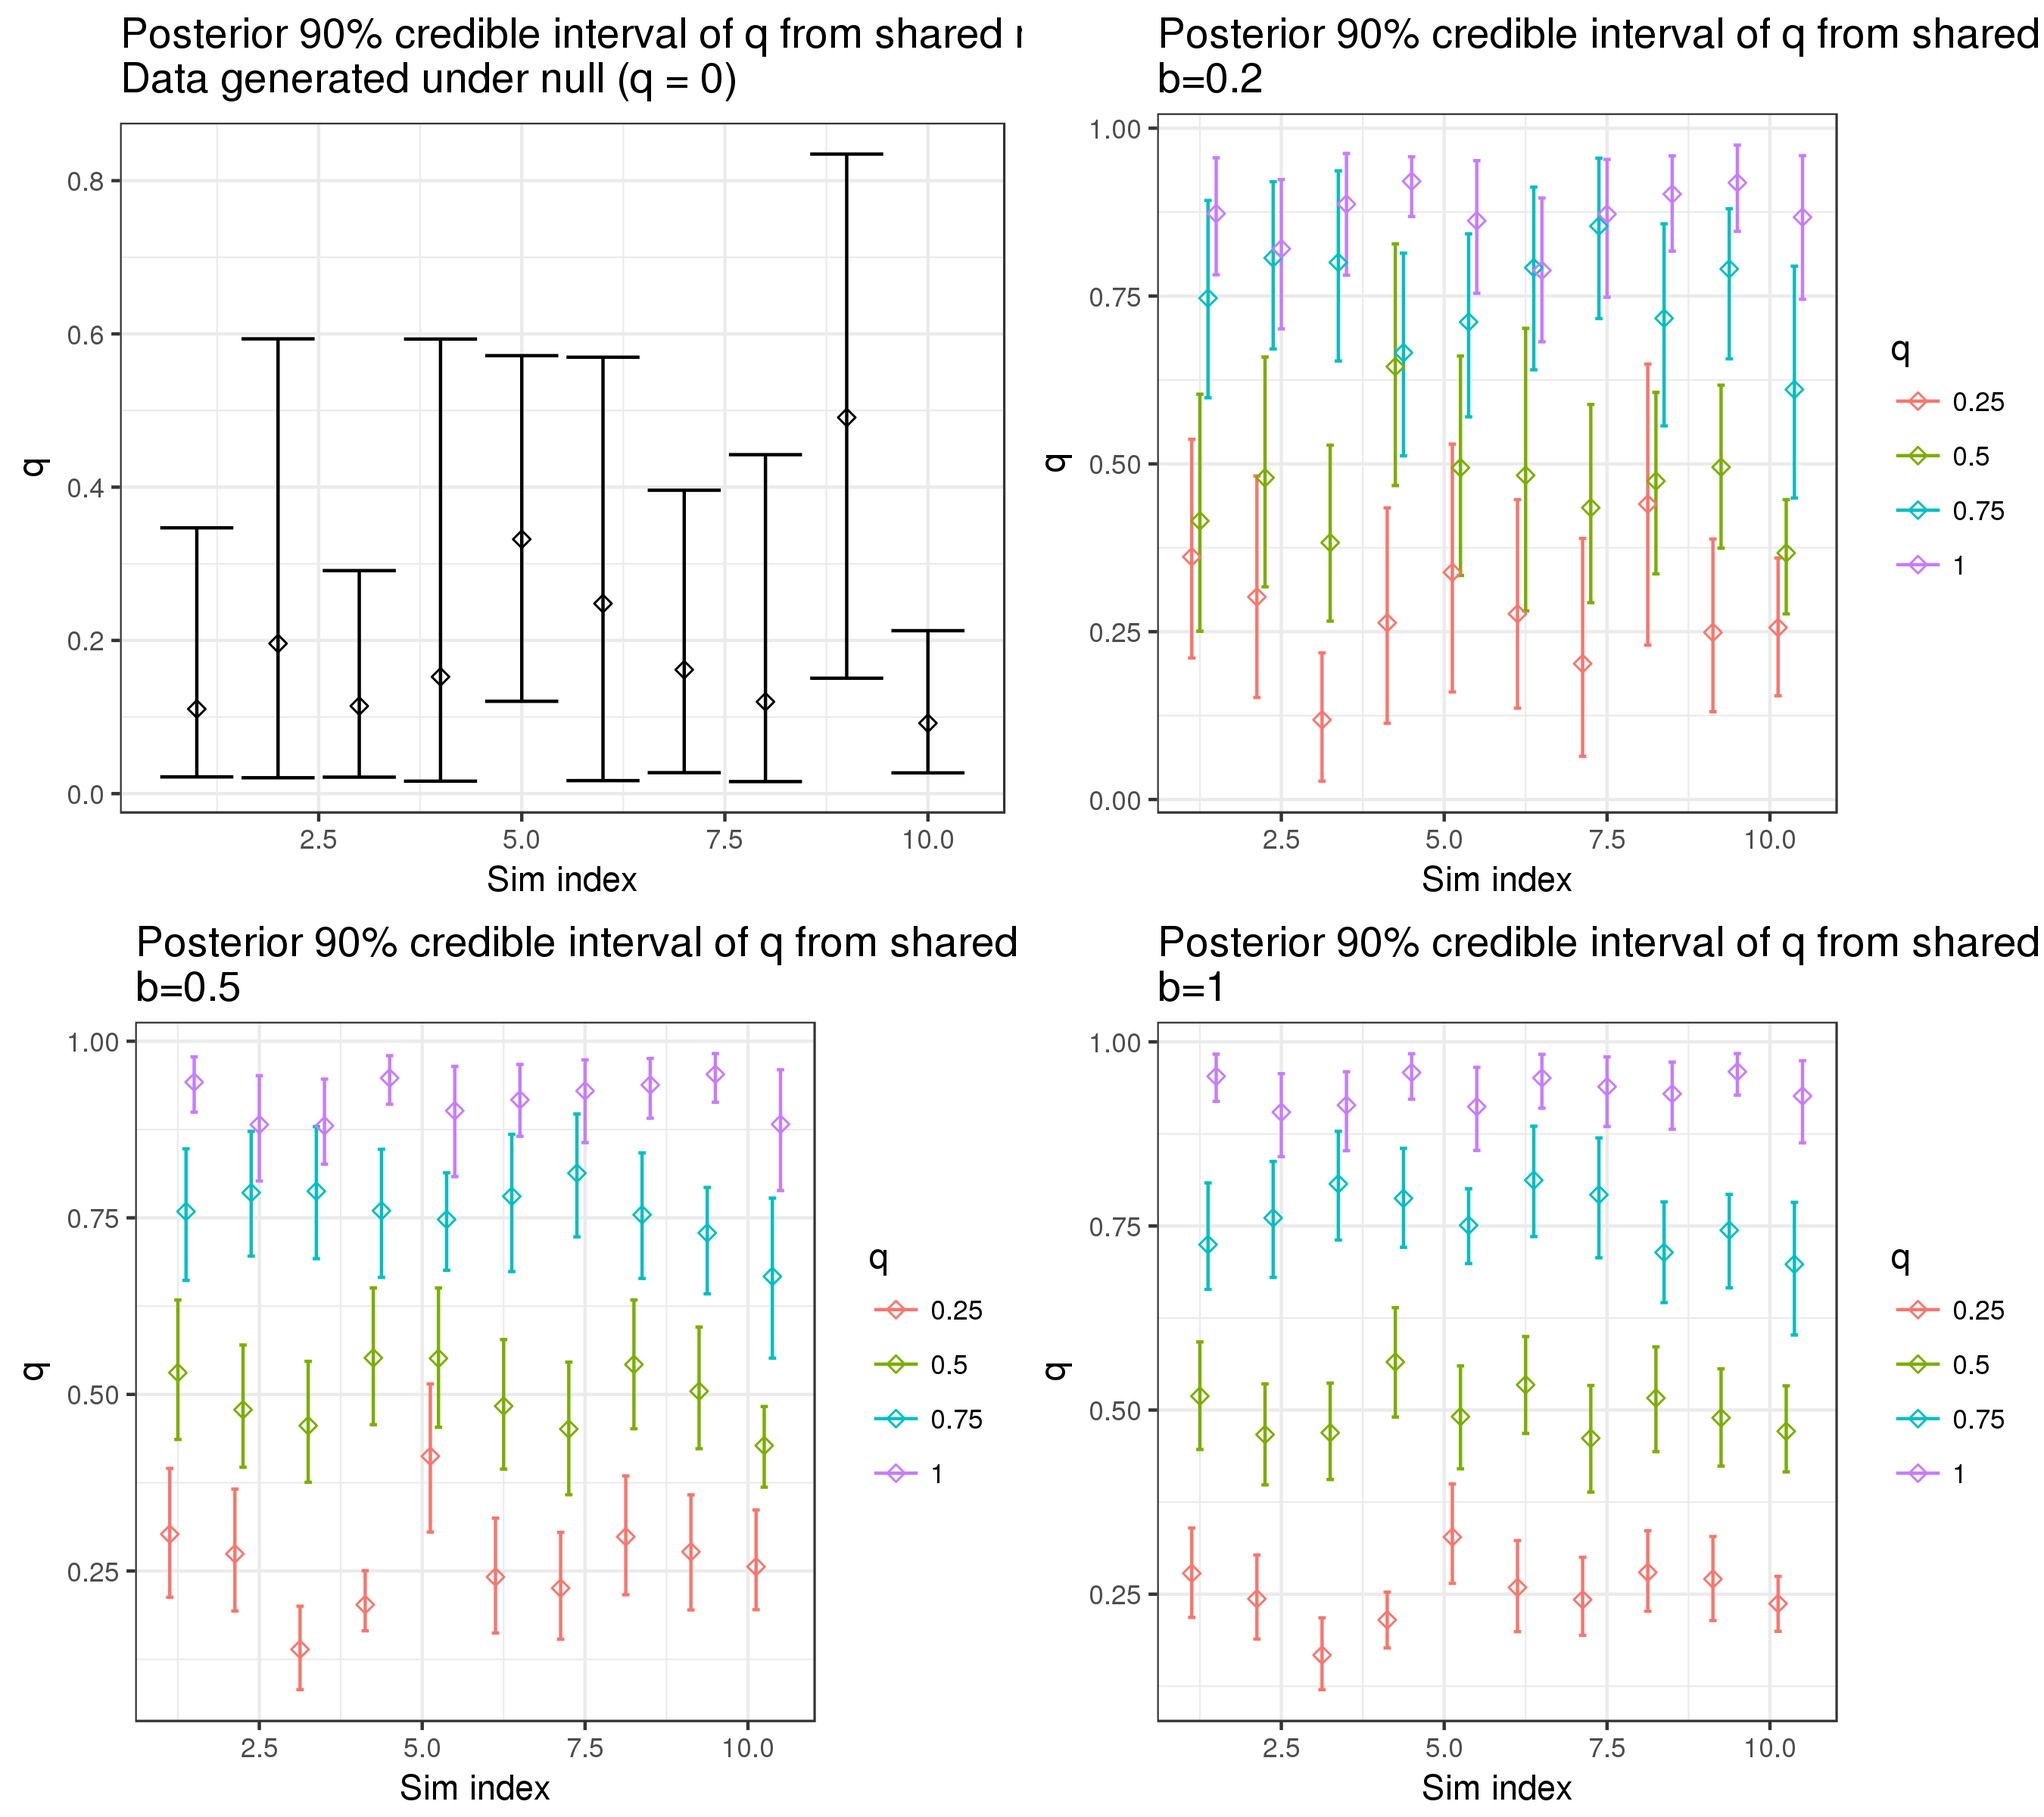
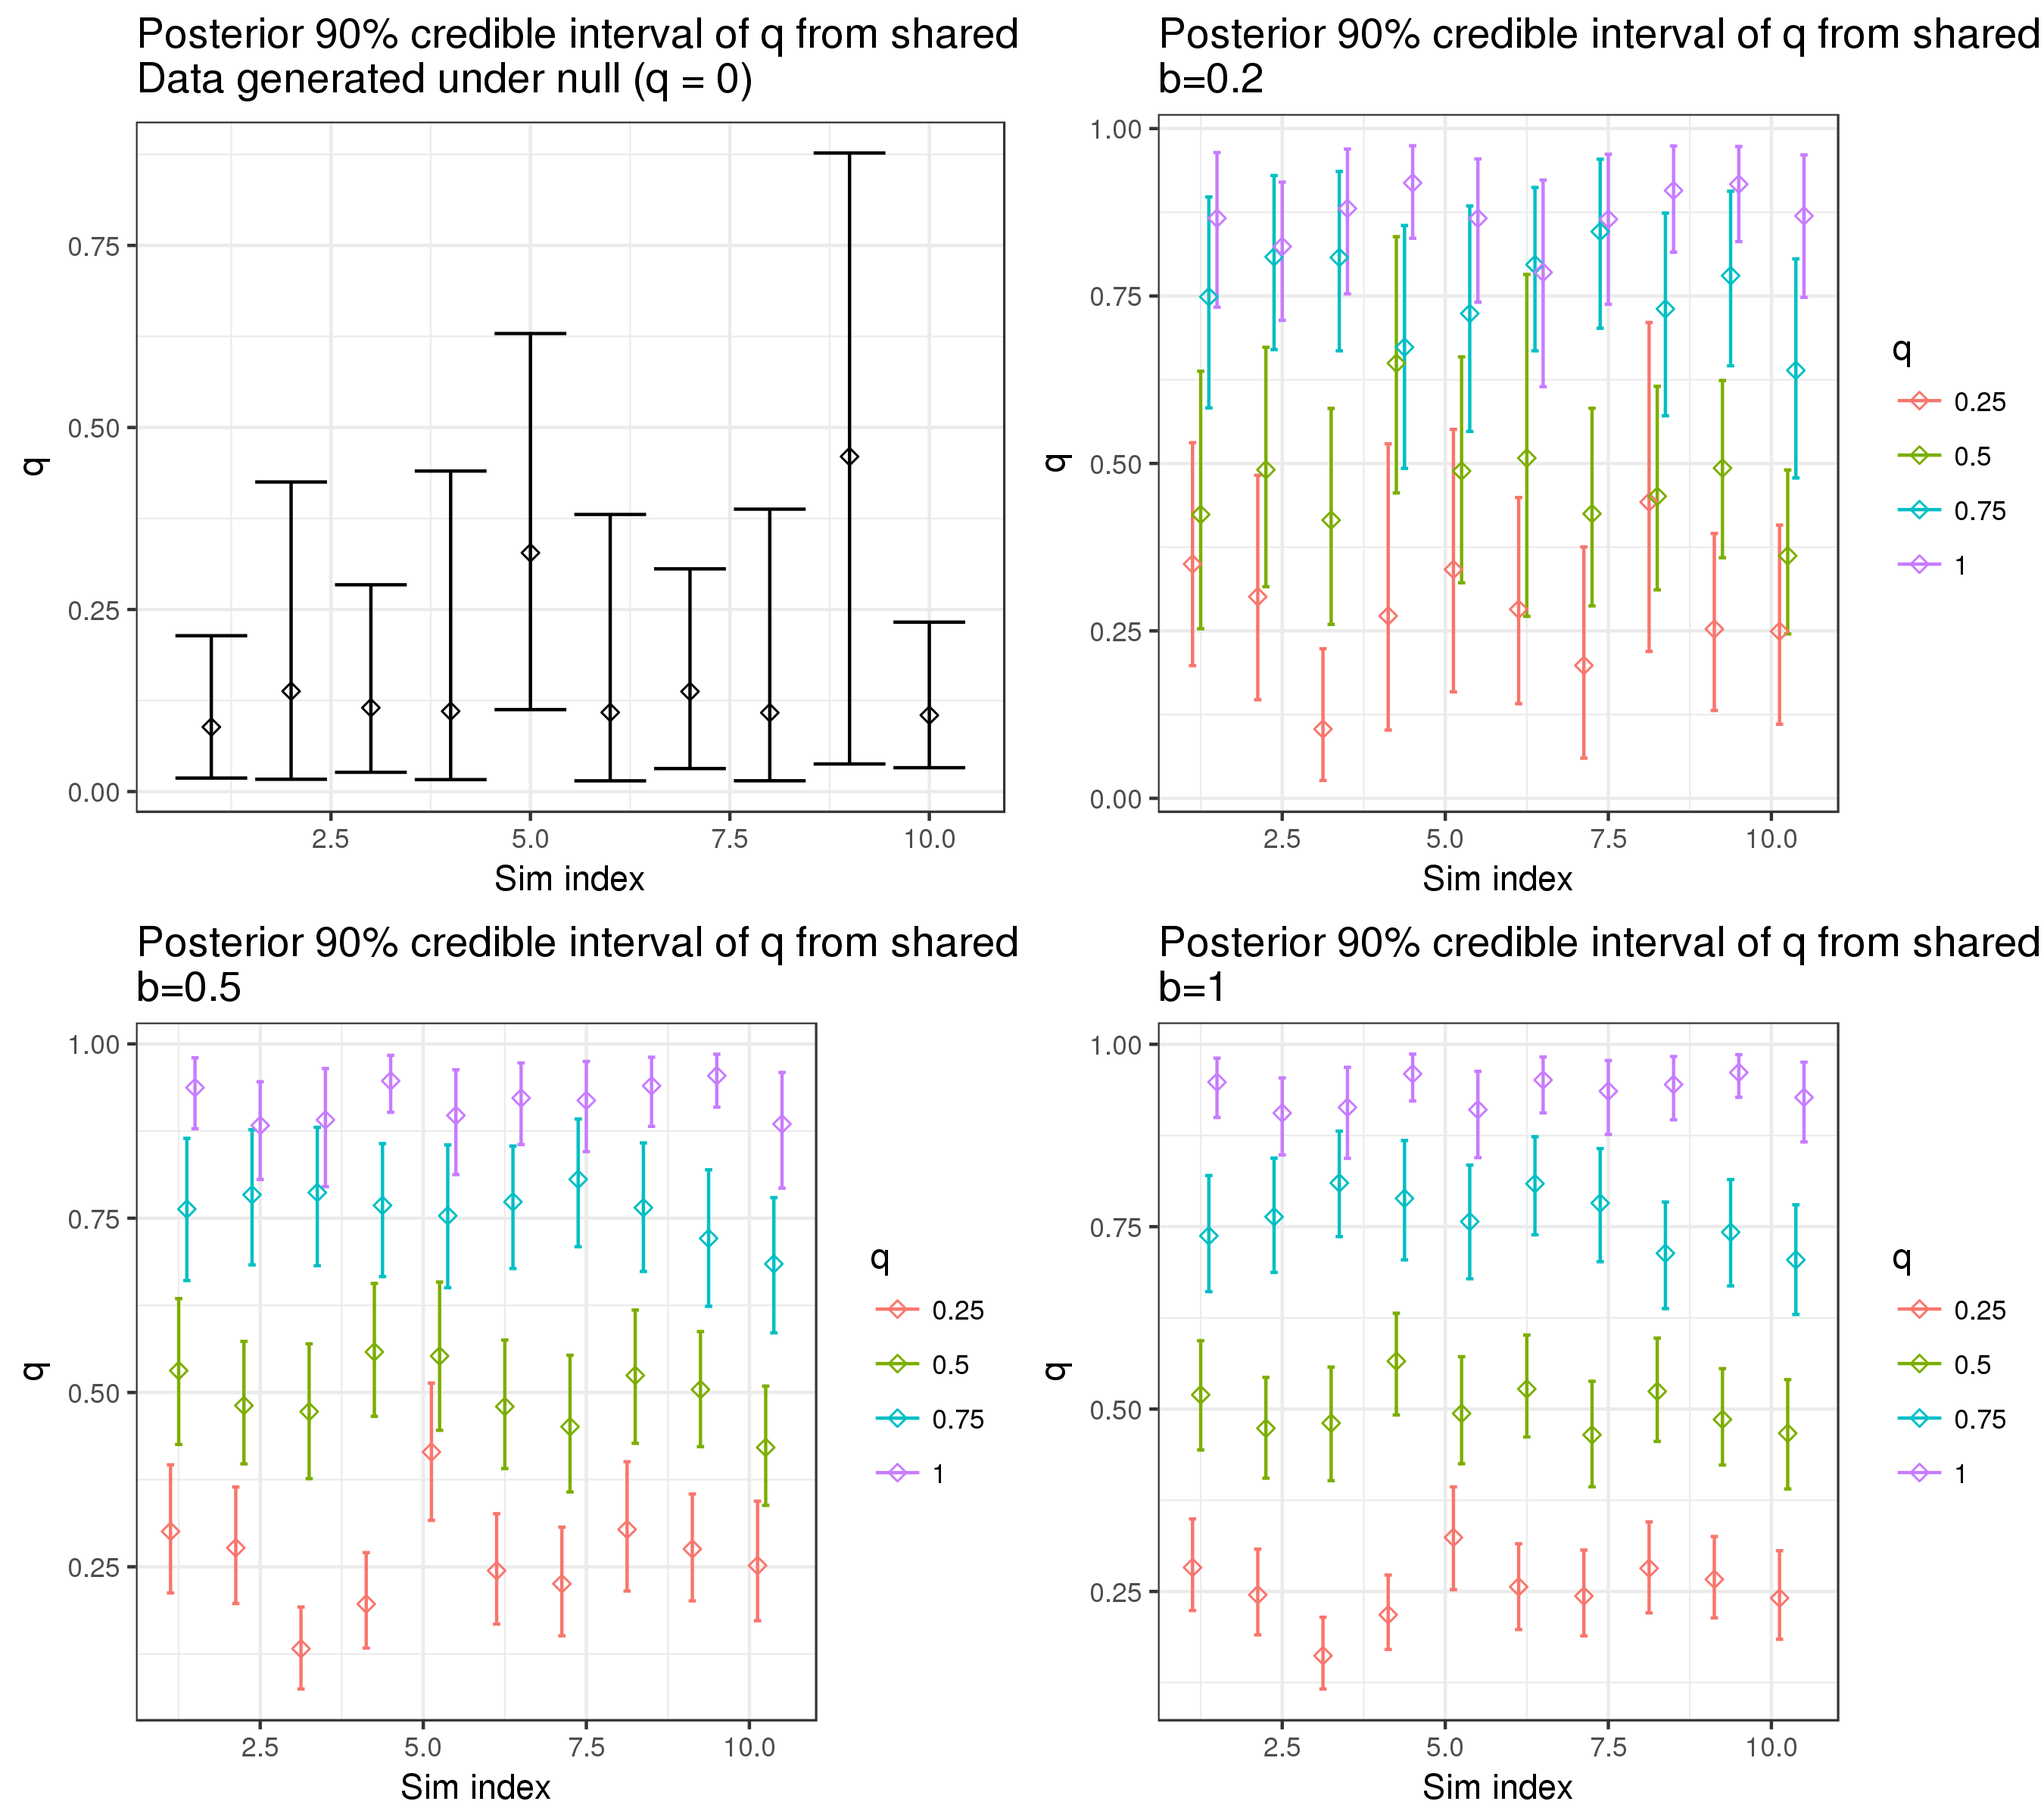
add credible intervals from causal model

diff --git a/docs/mh_test.html b/docs/mh_test.html
@@ -400,6 +400,7 @@ curve(f(x, 0.4), from=-4, to=4)</code></pre>
 <p>The following plots show the posterior 90% credible intervals for <span class="math inline">\(q\)</span> from the shared model. The first plot is for data generated with <span class="math inline">\(q = 0\)</span> (i.e. under the null model). The other three plots are respectively for each value of <span class="math inline">\(b\)</span>. Colors indicate the value of <span class="math inline">\(q\)</span>. <img src="q_cis_map_start.png" width="800"></p>
 <p>Here are the equivalent plots for the posterior distribution of <span class="math inline">\(b\)</span> from the shared model.</p>
 <p><img src="b_cis_map_start.png" width="800"></p>
+<p>And here are credible intervals for <span class="math inline">\(b\)</span> from the causal model: <img src="b_cis_map_start_caus.png" width="800"></p>
 </div>
 
 <hr>
